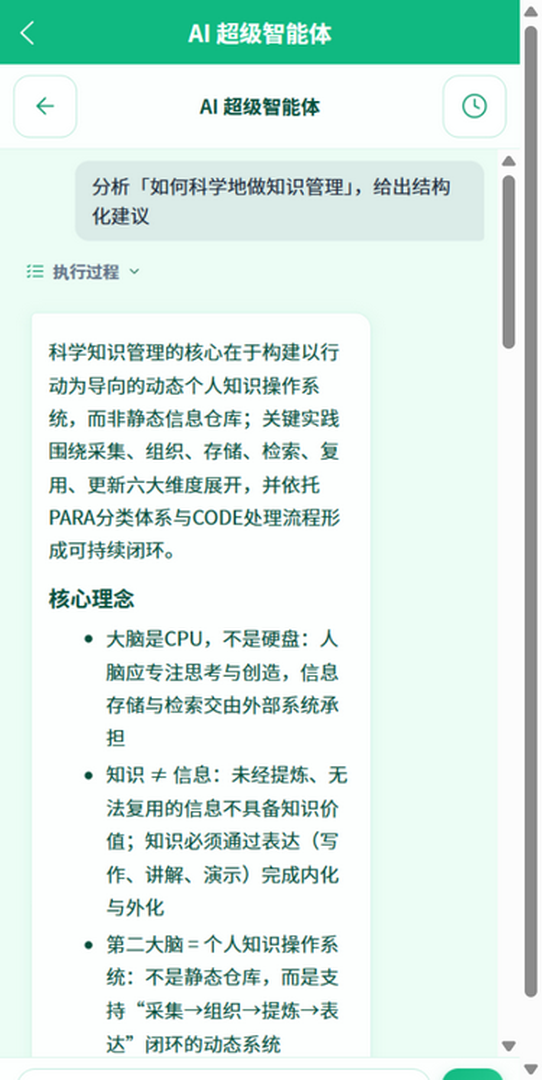
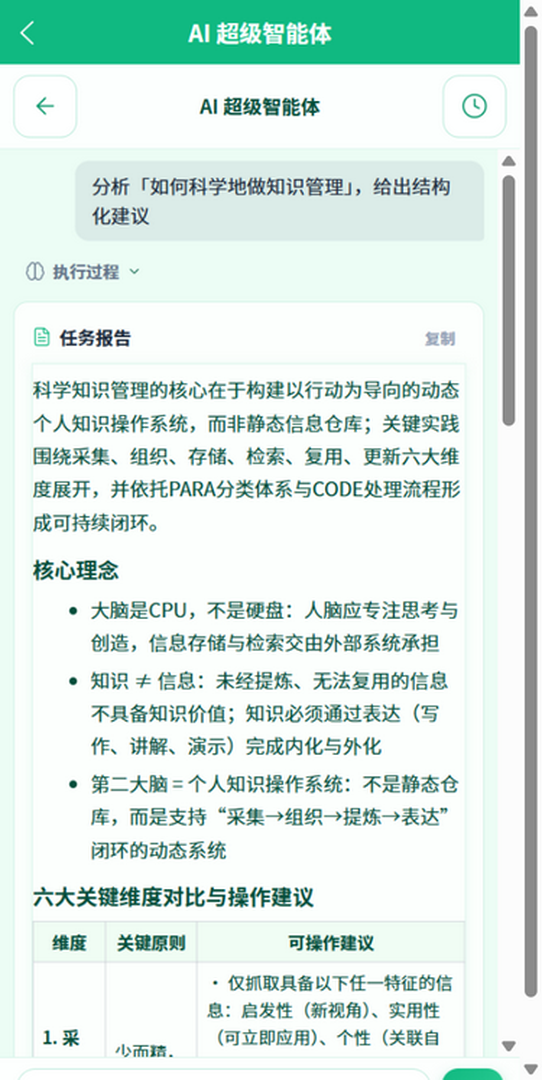
2026/10/7（微信端功能）： 1. 小程序任务报告改为卡片铺满布局（任务报告标题、复制按钮、内容全宽），与安卓/Web 报告面板一致； 2. 执行过程图标对齐 Web：折叠行改用大脑图标，事件行由彩色圆点改为图标列（思考/工具/计划/异常）； 3. README 小程序截图按新界面重截。

Changed region(s): [[0.0295, 0.2444, 0.8561, 0.9778], [0.9151, 0.3056, 0.9742, 0.3972]]

diff --git a/miniprogram/src/pages/manus/manus.vue b/miniprogram/src/pages/manus/manus.vue
@@ -25,7 +25,7 @@
 						class="process-toggle"
 						@tap="toggleRound(ri)"
 					>
-						<image class="process-icon" :class="{ spinning: isRoundRunning(ri) }" src="/static/icons/list-checks.svg" mode="aspectFit" />
+						<image class="process-icon" :class="{ 'icon-pulse': isRoundRunning(ri) }" src="/static/icons/brain.svg" mode="aspectFit" />
 						<text class="process-title">{{ roundTitle(ri) }}</text>
 						<view v-if="roundThinking(ri)" class="thinking-dots">
 							<view class="dot"></view>
@@ -57,7 +57,7 @@
 						<!-- 事件列表（工具调用与结果合并一行，点按展开详情） -->
 						<view v-for="(item, i) in round.items" :key="i" class="event-card" :class="{ thinking: item.kind === 'single' && item.ev.type === 'think' }">
 							<view class="event-head" @tap="onEventHeadTap(item, ri, i)">
-								<view class="event-dot" :class="item.kind === 'tool' ? (item.result ? 'dot-done' : 'dot-running') : 'dot-think'"></view>
+								<image class="event-icon" :class="{ spinning: item.kind === 'tool' && !item.result }" :src="eventIcon(item)" mode="aspectFit" />
 								<view class="event-main">
 									<view class="event-title-row">
 										<text class="event-title">{{ item.kind === 'tool' ? eventTitle(item.call) : eventTitle(item.ev) }}</text>
@@ -81,14 +81,23 @@
 						</view>
 					</view>
 
-					<!-- 任务报告（复用消息气泡：marked+mp-html 渲染、图片代理、TTS 播报） -->
-					<chat-bubble
-					v-if="round.report"
-					:key="'report-' + ri + '-' + round.report.length"
-					:msg="reportBubble(round)"
-					:hide-avatar="true"
-					:compact="true"
-				/>
+					<!-- 任务报告（卡片铺满：与安卓/Web 报告面板一致；内容仍由消息气泡组件渲染 Markdown 与图片） -->
+					<view v-if="round.report" class="report-panel">
+						<view class="panel-head">
+							<image class="panel-icon" src="/static/icons/file-text.svg" mode="aspectFit" />
+							<text class="panel-title">任务报告</text>
+							<view class="report-copy" @tap="copyReport(round)">
+								<text class="report-copy-text">{{ copiedRound === ri ? '已复制' : '复制' }}</text>
+							</view>
+						</view>
+						<chat-bubble
+							:key="'report-' + ri + '-' + round.report.length"
+							:msg="reportBubble(round)"
+							:hide-avatar="true"
+							:compact="true"
+							:full-width="true"
+						/>
+					</view>
 
 					<!-- 交付物行（下载后打开；图片可预览） -->
 					<view v-for="d in round.deliverables" :key="d.index" class="deliverable" @tap="openDeliverable(d)">
@@ -342,6 +351,36 @@ function eventTitle(ev) {
 		}
 	})()
 	return prefix + base
+}
+
+/** 事件行图标：与 Web 端事件图标一一对应（think→大脑、工具→扳手、计划→清单、异常→警告） */
+function eventIcon(item) {
+	const type = item.kind === 'tool' ? 'tool' : item.ev.type
+	const icons = {
+		think: '/static/icons/brain.svg',
+		tool: '/static/icons/wrench.svg',
+		'plan_updated': '/static/icons/list-checks.svg',
+		error: '/static/icons/alert-circle.svg'
+	}
+	return icons[type] || '/static/icons/file-text.svg'
+}
+
+// 报告复制反馈状态（轮次序号 → 已复制）
+const copiedRound = ref(null)
+
+/** 复制任务报告原文 */
+function copyReport(round) {
+	uni.setClipboardData({
+		data: round.report || '',
+		success: () => {
+			copiedRound.value = round
+			uni.showToast({ title: '报告已复制', icon: 'none' })
+			setTimeout(() => {
+				if (copiedRound.value === round) copiedRound.value = null
+			}, 2000)
+		},
+		fail: () => uni.showToast({ title: '复制失败，请长按选择复制', icon: 'none' })
+	})
 }
 
 /** 工具结果/思考内容的一行摘要 */
@@ -782,8 +821,13 @@ function deleteTask(item) {
 	height: 30rpx;
 }
 
-.process-icon.spinning {
-	animation: spin 1.2s linear infinite;
+.process-icon.icon-pulse {
+	animation: icon-pulse 1.6s ease-in-out infinite;
+}
+
+@keyframes icon-pulse {
+	0%, 100% { opacity: 1; transform: scale(1); }
+	50% { opacity: 0.55; transform: scale(0.92); }
 }
 
 .process-title {
@@ -944,16 +988,16 @@ function deleteTask(item) {
 	padding: 16rpx 20rpx;
 }
 
-.event-dot {
-	width: 14rpx;
-	height: 14rpx;
-	border-radius: 50%;
+.event-icon {
+	width: 30rpx;
+	height: 30rpx;
 	flex-shrink: 0;
+	margin-top: 2rpx;
 }
 
-.dot-think { background: #94A3B8; }
-.dot-done { background: #10B981; }
-.dot-running { background: #F59E0B; }
+.event-icon.spinning {
+	animation: spin 1.2s linear infinite;
+}
 
 .event-main {
 	flex: 1;
@@ -1010,6 +1054,35 @@ function deleteTask(item) {
 	word-break: break-all;
 	margin-bottom: 10rpx;
 	white-space: pre-wrap;
+}
+
+/* 任务报告卡片（铺满，与安卓/Web 报告面板一致） */
+.report-panel {
+	padding: 20rpx 24rpx;
+	border-radius: 20rpx;
+	background: rgba(255, 255, 255, 0.82);
+	border: 1rpx solid rgba(16, 185, 129, 0.18);
+	margin-top: 12rpx;
+}
+
+.report-panel .panel-head {
+	margin-bottom: 8rpx;
+}
+
+.report-copy {
+	margin-left: auto;
+	padding: 8rpx 16rpx;
+	border-radius: 999rpx;
+}
+
+.report-copy:active {
+	background: rgba(16, 185, 129, 0.08);
+}
+
+.report-copy-text {
+	font-size: 22rpx;
+	font-weight: 600;
+	color: #94A3B8;
 }
 
 /* 交付物行 */

diff --git a/miniprogram/src/components/chat-bubble.vue b/miniprogram/src/components/chat-bubble.vue
@@ -1,5 +1,5 @@
 <template>
-	<view class="bubble-row" :class="isUser ? 'row-user' : 'row-ai'">
+	<view class="bubble-row" :class="[isUser ? 'row-user' : 'row-ai', { 'row-full': fullWidth }]">
 		<!-- AI 头像（hideAvatar 时隐藏，如超级智能体报告区） -->
 		<view v-if="!isUser && !hideAvatar" class="avatar avatar-ai">知</view>
 
@@ -75,7 +75,9 @@ const props = defineProps({
 	// 隐藏左侧 AI 头像（超级智能体报告区使用）
 	hideAvatar: { type: Boolean, default: false },
 	// 紧凑排版：收敛标题字号与间距（长 Markdown 报告使用，避免默认 h1 过大显乱）
-	compact: { type: Boolean, default: false }
+	compact: { type: Boolean, default: false },
+	// 全宽模式：内容铺满整行、去掉气泡底与内边距（由外层卡片提供外观，用于任务报告）
+	fullWidth: { type: Boolean, default: false }
 })
 
 const isUser = computed(() => props.msg.role === 'user')
@@ -297,6 +299,22 @@ function onToggleSpeech() {
 .bubble-wrap {
 	max-width: 78%;
 	min-width: 0;
+}
+
+/* 全宽模式（任务报告）：铺满整行、无气泡底与内边距，外观由外层卡片负责 */
+.bubble-row.row-full {
+	padding: 0;
+}
+
+.bubble-row.row-full .bubble-wrap {
+	max-width: 100%;
+	width: 100%;
+}
+
+.bubble-row.row-full .bubble {
+	padding: 0;
+	border-radius: 0;
+	background: transparent;
 }
 
 .bubble {

diff --git a/PROGRESS.md b/PROGRESS.md
@@ -163,6 +163,7 @@
 | 2026/10/5 | **三期验收反馈：交付物去重**——轮内报告下方的交付物卡片与底部「交付物(N)」汇总区重复展示，按用户决定移除底部汇总区，交付物只在对应轮次报告下方出现一次 | 改 `ManusChat.vue` | 是（构建通过） |
 ## 本次改动记录（最新在前）
 
+| 2026/10/7 | **小程序任务页 UI 对齐安卓/Web（用户反馈两条）**：① **报告铺满**——报告区从聊天气泡样式改为卡片式（`chat-bubble` 新增 `fullWidth` 全宽模式：铺满整行、去气泡底与内边距；外层新增 report-panel 卡片 + "任务报告"标题 + file-text 图标 + 复制按钮），与安卓/Web 报告面板一致；② **执行过程图标对齐 Web**——新增 4 个 lucide 图标（brain/wrench/alert-circle/file-text），折叠行图标 list-checks→brain 并改 icon-pulse 呼吸动效，事件行彩色圆点→图标列（think→大脑、工具→扳手（运行中转圈）、计划→清单、异常→警告），与 Web 事件图标一一对应；README 小程序截图按新 UI 重截 | 改 `miniprogram/src/components/chat-bubble.vue`（fullWidth 模式）、`miniprogram/src/pages/manus/manus.vue`（报告卡片+图标+复制）、新增 4 个图标 svg、重截 `docs/screenshots/miniprogram-manus.png` | 是（小程序编译通过；H5 版逐屏截图验证：报告铺满、标题/复制按钮、事件图标与 Web 一致） |
 | 2026/10/7 | **批次五追加：历史对话开关按钮两页统一**（用户要求，安卓 WebView 随 H5 生效）：普通智能体（KnowledgeChat）的历史开关从"侧栏右缘浮动按钮（桌面）+ 头部左侧菜单按钮（移动端）"两处收敛为**头部最右侧一个按钮**（44px 浅绿底 ListTodo，与超级智能体页同款同位），删除两处旧按钮及其样式；超级智能体（ManusChat）的开关由"仅移动端显示的透明按钮"改为同款样式**全端显示**，并补齐桌面侧栏收起能力（margin-left -260px 过渡，同知识问答页机制）+ isMobile 判定与断点跨切复位 + 遮罩仅移动端渲染；**App.vue 聊天页隐藏品牌 Logo 扩展为全端**（/knowledge 与 /manus 头部右上按钮与固定右上角的品牌标位置重叠，品牌标回首页功能与各页返回按钮重复，隐藏无入口损失）。浏览器实测：两页按钮同位同样式、Manus 桌面收起/展开动画正常、移动端抽屉与遮罩正常、重叠消除；**二次修正（用户反馈）**：移动端开关图标由 ListTodo 换回三横杠 Menu（桌面浮动按钮保持左右箭头不变），两页图标统一；**三次修正（用户反馈）**：普通智能体用户消息气泡由绿底白字改为灰底深字（#eceff4/#1e293b），与超级智能体页一致；AI 回复内容背景改透明并去边框阴影 | 改 `KnowledgeChat.vue`（删两旧按钮+新增头部开关）、`ManusChat.vue`（按钮统一样式+桌面收起+isMobile）、`App.vue`（hideBrand 扩展） | 是（双端构建通过；桌面 1280px 与移动 375px 截图逐项验证：按钮同位同样式、开关功能、侧栏收起、重叠消除） |
 | 2026/10/7 | **批次一~四提交**：`8769b50`（14 文件 +1655/-453，含 .gitignore 忽略项补充），未推送，工作区清空 | 14 个代码/文档文件 | 提交前 git status 逐项核对 |
 | 2026/10/7 | **批次五（多端适配）落地**：**小程序 manus 页任务制重写**——旧会话式一次性对话（GET /ai/manus/chat，无历史）升级为对齐 Web 的任务制轮次对话流：创建任务→事件流实时渲染（计划四态/工具调用与结果合并一行/思考折叠）→报告复用 chat-bubble（marked+mp-html、图片代理、TTS 播报）→交付物行（downloadFile 带 token + 图片 previewImage/其余 openDocument）→追问续轮（发送键执行中变红色停止）→任务记录弹层（最近 50 条，ActionSheet 改名/删除，运行中禁删）；api.js 新增 9 个任务制接口，事件流复用 streamRequest 通用层（GET+after+SSE 分帧，单帧解析失败丢帧与 Web 策略一致）；批量管理不做（触屏体验差，Web 专属）。**Web /manus 移动端适配**——768px 断点扩充：头部压缩（返回只留图标/标题省略/状态胶囊缩小）、抽屉宽统一 260px、textarea 移动端 1rem 字号防 iOS 聚焦放大 + 56px 高适配两行占位、面板收窄；375px 截图逐项验证（抽屉/报告表格横向滚动/输入区）。独立审查 P0/P1=0，修复 P2×1（未配对 tool_result 详情取错字段显示空白）+ P3×6（stop 防连点、交付物打开防重、报告气泡按内容 memoize、loadHistory 失败日志、final 刷新死状态清理、移动端返回按钮 44px 热区） | 改 `miniprogram/src/pages/manus/manus.vue`（整页重写）、`miniprogram/src/utils/api.js`、`frontend/src/views/ManusChat.vue`（媒体查询） | 是（双端构建通过；Web 375px 浏览器截图逐项验证；小程序真机回归待用户执行；独立审查修复后复build 通过） |
